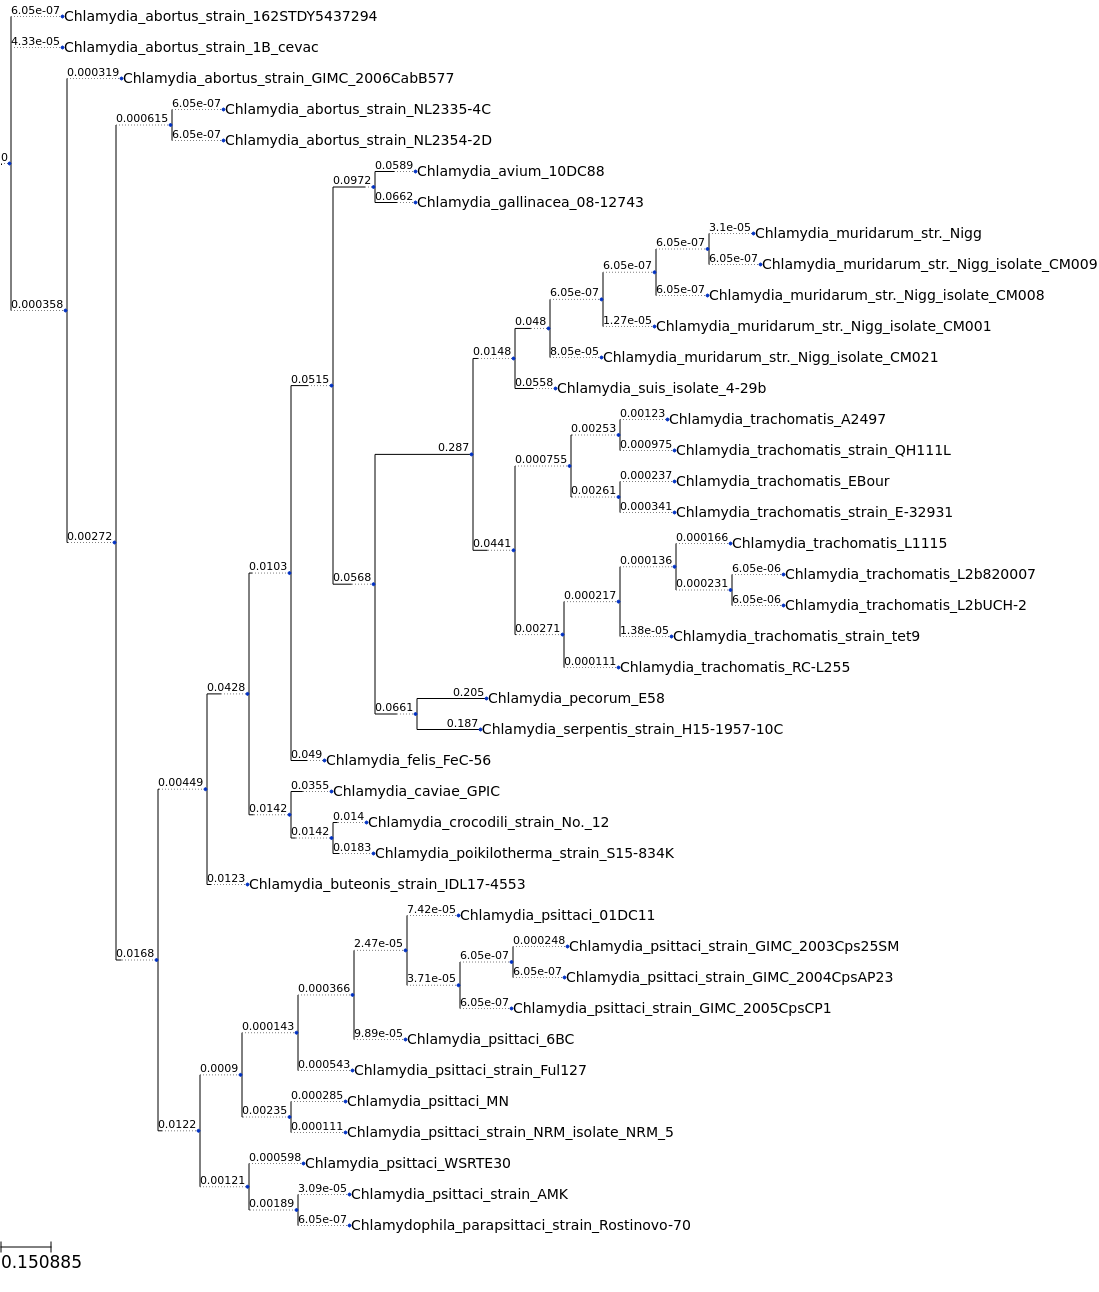
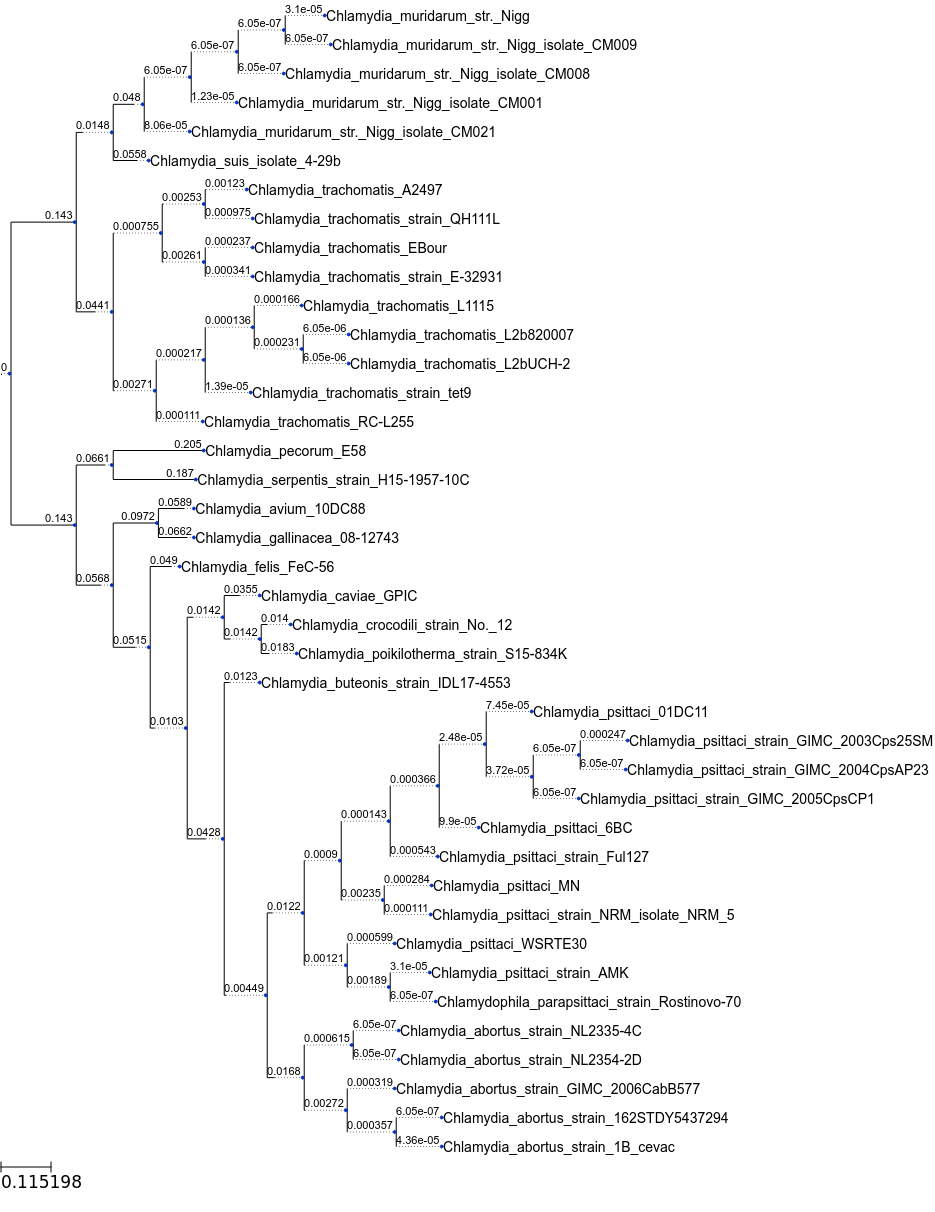
fix gallery and overview

diff --git a/app/templates/gallery.html b/app/templates/gallery.html
@@ -36,25 +36,28 @@
         <p class="w-3/4 text-center text-l p-3 m-4 rounded-md  text-black bg-white bg-opacity-75 text-justify">
             <b>[1] Distribution of ORF count per genome</b><br>
             Results from run A demonstrates that most Chlamydia genomes have ORF counts clustered around 900: <br><br> 
-            <img class="w-3/4 text-center p-3 m-4 rounded-md bg-opacity-75" src="{{url_for('static',filename='images/gallery/orfs_counts.png')}}"><br>
+            <img class="w-3/4 text-center p-3 m-4 rounded-md bg-opacity-75" src="{{url_for('static',filename='images/gallery/orfs_counts_a.png')}}"><br>
             This result is consistent with their relatively small genomes due to reductive evolution, where Chlamydia has lost enzymes and metabolic pathways for nutrients that are readily available from the host cell (Sigalova et al., 2019). The outgroup genome of Waddlia chondrophila deviates significantly, with ORF counts of ~1,900. 
         </p>
         
         <p class="w-3/4 text-center text-l p-3 m-4 rounded-md  text-black bg-white bg-opacity-75 text-justify">
             <b>[2] Average Nucleotide Identity (ANI) analysis</b><br>
             The heatmap below represents the results of pairwise ANI comparisons of all genomes in run A:<br><br>
-            <img class="w-3/4 text-center p-3 m-4 rounded-md bg-opacity-75" src="{{url_for('static',filename='images/gallery/ani_map.png')}}">
+            <img class="w-3/4 text-center p-3 m-4 rounded-md bg-opacity-75" src="{{url_for('static',filename='images/gallery/ani_map_a.png')}}">
             High ANI values (red) that are close to 100%, indicate strain pairs with high genetic similarity. The heatmap shows clusters of closely related strains or species within the same lineage (e.g., <i>Chlamydia trachomatis</i> strains clustering together). Intermediate ANI values (yellow/ light orange) in the range ~85–95% suggest moderate genetic divergence, potentially representing distinct, yet closely related species within the <i>Chlamydia</i> genus (e.g., <i>Chlamydia psittaci</i> and <i>Chlamydia abortus</i>). Low ANI values (green) below 85% denote significant divergence, highlighting strains more distantly related within the <i>Chlamydia</i> genus. This analysis provides insights into the phylogenetic relationships within the <i>Chlamydia</i> genus, supporting species classification and comparative genomic studies. 
         </p>
         
         <p class="w-3/4 text-center text-l p-3 m-4 rounded-md  text-black bg-white bg-opacity-75 text-justify">
             <b>[3] Orthogroups</b><br>
-            The histogram of orthogroups sizes from run A, derived from the orthogroups CSV file table, visually represents the distribution of orthology group sizes across the dataset. The annotated version of the table contains two annotations: the first is functional and is based on the KEGG Orthology (KO) database. The second is the mean Codon Adaptation Index (CAI) score of all ORFs in the orthogroup (Sharp et al., 1987). The annotated table is also sorted by this value, from highest to lowest.
-             <img class="w-3/4 text-center p-3 m-4 rounded-md bg-opacity-75" src="{{url_for('static',filename='images/gallery/groups_sizes_a.png')}}"><br>
+            The orthogroup table contains for each orthogroup its member genes. The annotated version of the table contains three annotations: first, it shows the orthogroup size in terms of number of genomes and total number of genes, the second one is functional annotation based on the KEGG Orthology (KO) database, and the third is the mean Codon Adaptation Index (CAI) score of all ORFs in the orthogroup (Sharp et al., 1987).<br><br>
+            Another output is the phyletic pattern - a presence/absence matrix of orthogroups across the genomes. The figure below shows the phyletic pattern of orthogroups from run A, which is enhanced with hierarchical clustering of the genomes:<br><br>
+            <img class="w-3/4 text-center p-3 m-4 rounded-md bg-opacity-75" src="{{url_for('static',filename='images/gallery/phyletic_pattern_a.png')}}"><br>
+            The histogram of orthogroups sizes from run A, derived from the orthogroups CSV file table, visually represents the distribution of orthology group sizes across the dataset.
+             <img class="w-3/4 text-center p-3 m-4 rounded-md bg-opacity-75" src="{{url_for('static',filename='images/gallery/orthogroups_sizes_a.png')}}"><br>
             The histogram reveals a conserved core genome within the Chlamydia genus, including the outgroup Waddlia chondrophila, with 384 core genes shared across all 41 analyzed genomes. This reflects the high gene conservation typical of closely related genomes. The intermediate distribution represents genes shared among subsets of genomes, suggesting conserved functions within specific lineages or species. Genes found in a few genomes likely indicate accessory genes or those acquired through horizontal gene transfer, potentially linked to niche-specific adaptations or environmental pressures on certain strains.<br><br>
             The orthogroups size distribution from run B shows a different pattern:<br><br>
-            <img class="w-3/4 text-center p-3 m-4 rounded-md bg-opacity-75" src="{{url_for('static',filename='images/gallery/groups_sizes_b.png')}}"><br>
-            As expected, increasing the sequence identity and coverage thresholds for homologs detection produced smaller orthogroups. This occurs because fewer gene pairs meet the stricter similarity requirements. The high value of OG of size one stems from the fact that in run B we included ORFans.
+            <img class="w-3/4 text-center p-3 m-4 rounded-md bg-opacity-75" src="{{url_for('static',filename='images/gallery/orthogroups_sizes_b.png')}}"><br>
+            As expected, increasing the sequence identity and coverage thresholds for homologs detection produced smaller orthogroups. This occurs because fewer gene pairs meet the stricter similarity requirements. The high value of OG of size one stems from the fact that in run B we chose to include orphan genes as part of the orthogroups table (as indicates in run B parameters).
 		</p>
         
 		<p class="w-3/4 text-center text-l p-3 m-4 rounded-md  text-black bg-white bg-opacity-75 text-justify">
@@ -68,7 +71,7 @@
 		</p>
 		<p class="w-3/4 text-center text-l p-3 m-4 rounded-md  text-black bg-white bg-opacity-75 text-justify">
 			<b>[5] Genome completeness</b><br>
-            <img class="w-3/4 text-center p-3 m-4 rounded-md bg-opacity-75" src="{{url_for('static',filename='images/gallery/genomes_completeness.png')}}"><br>
+            <img class="w-3/4 text-center p-3 m-4 rounded-md bg-opacity-75" src="{{url_for('static',filename='images/gallery/genomes_completeness_a.png')}}"><br>
             The distribution of Genome BUSCO completeness scores from run A suggests that most genomes analyzed are highly complete, with most scores clustered between 92.0 and 93.0. This indicates that the genomes are well-assembled and contain most of the expected single-copy orthologs, reflecting good quality and reliability for comparative analyses. The slight tail toward higher scores, up to 96.0, may represent a subset of exceptionally complete genomes, possibly due to higher sequencing or assembly quality. Overall, this distribution highlights the dataset's reliability for genomic studies while reflecting variability that may stem from sequencing depth, assembly techniques, or biological differences between the organisms.
 		</p>
 		<p class="w-3/4 text-center text-l p-3 m-4 rounded-md  text-black bg-white bg-opacity-75 text-justify">
@@ -82,10 +85,10 @@
         </p>
         <p class="w-3/4 text-center text-l p-3 m-4 rounded-md  text-black bg-white bg-opacity-75 text-justify">
             <b>[7] Phylogenetic tree</b><br>
-            The phylogenetic species tree from run A (that included the outgroup) is as follows:<br><br>
+            The phylogenetic species tree from run A (that included the outgroup and was rooted according to it) is as follows:<br><br>
             <img class="w-3/4 text-center p-3 m-4 rounded-md bg-opacity-75" src="{{url_for('static',filename='images/gallery/final_species_tree_a.png')}}"><br>
             Excluding W. chondrophila, which served as an outgroup for rooting, the most divergent genomes in the tree are <i>Chlamydia serpentis</i> and <i>Chlamydia pecorum</i>, as indicated by the relatively long branches leading to these species. Consistent with their divergence from the main group of isolates, both species exhibit low ANI values in all pairwise comparisons, except when compared to themselves. Bootstrap values for each branch are highlighted in red.<br><br>
-            Run B was conducted without an outgroup and without bootstrap values:<br><br>
+            Run B was conducted without a specified outgroup (in this case the tree is midpoint-rooted for the figure) and without bootstrap values:<br><br>
             <img class="w-3/4 text-center p-3 m-4 rounded-md bg-opacity-75" src="{{url_for('static',filename='images/gallery/final_species_tree_b.png')}}"><br>
             This tree, constructed without an outgroup, focuses on internal relationships within Chlamydia species. Without an external taxon to define ancestral traits or lineage age, it highlights subtle genetic differences and close evolutionary connections within the group.
          </p>

diff --git a/app/templates/overview.html b/app/templates/overview.html
@@ -121,11 +121,9 @@
 			<br><br>
 			&#x25cf; Folder 04_orphan_genes: A file for each genome containing a list of the orphan genes of that genome (genes that don't have any orthologs in other genomes). Orphan genes may be single-copy, meaning that they have only one copy in the gneome, or multi-copy, meaning that they have multiple copies in the genome (and in that case they are part of an "orphan orthogroup" - orthgroup that contains genes from a single genome).
 			<br><br>
-			&#x25cf; Folder 05a_orthogroups: The orthogroups: (1) in a table (csv) format, where each row is an orthogroup and each column is a genome. (2) an annotated table similar to (1) with the addition of KEGG Orthology annotations for each orthogroup as well as the average Codon Adaptation Index (CAI) of all the genes in the orthogroup. The annotated table is sorted by the average CAI value of the orthogroups, from highest to lowest. (3) the orthogroups in OrthoXML format.
+			&#x25cf; Folder 05a_orthogroups: The orthogroups: (1) in a table (csv) format, where each row is an orthogroup and each column is a genome. (2) An annotated table similar to (1) with the addition of orthogroup size, KEGG Orthology annotations, and the average Codon Adaptation Index (CAI) of all the genes in the orthogroup. (3) The orthogroups in OrthoXML format.
 			<br><br>
-			&#x25cf; Folder 05b_orthogroups_sizes: A csv file with the size of each orthogroup (in terms of number of genomes, and total number of genes), and a bar plot of the orthogroups sizes frequency (in terms of number of genomes).
-			<br><br>
-            &#x25cf; Folder 05c_orthogroups_visualizations: (1) A phyletic pattern matrix (a table where row i is a genome, column j is an orthogroup and the i,j entry contains 1 if the orthogroup j contains a member of genome i, o.w., 0). (2) A binary presence/absence matrix of the phyletic pattern matrix, enhanced with a hierarchical clustering of the genomes. (3) a 2D-UMAP projection of the genomes (where each genome is represented by a binary vector of its orthogroups membership), enhanced with a clustering of the genomes using HDBSCAN. In the clusters outputs, cluster number -1 represents genomes that were not assigned to any cluster.
+			&#x25cf; Folder 05b_orthogroups_visualizations: (1) A csv file with the size of each orthogroup (in terms of number of genomes, and total number of genes), and a bar plot of the orthogroups sizes frequency (in terms of number of genomes). (2) A phyletic pattern matrix (a table where row i is a genome, column j is an orthogroup and the i,j entry contains 1 if the orthogroup j contains a member of genome i, o.w., 0). (3) A binary presence/absence matrix of the phyletic pattern matrix, enhanced with a hierarchical clustering of the genomes. (3) a 2D-UMAP projection of the genomes (where each genome is represented by a binary vector of its orthogroups membership), enhanced with a clustering of the genomes using HDBSCAN. In the clusters outputs, cluster number -1 represents genomes that were not assigned to any cluster.
 			<br><br>
 			&#x25cf; Folder 06a_orthogroups_dna: A fasta file for each orthogroup containing the UNALIGNED DNA sequences of the members.
 			<br><br>
